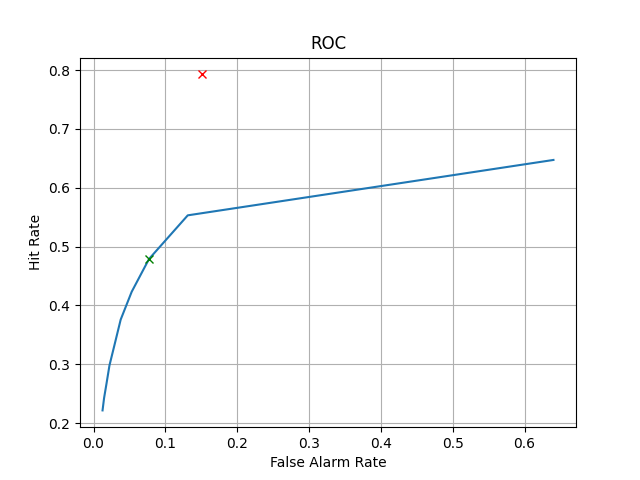
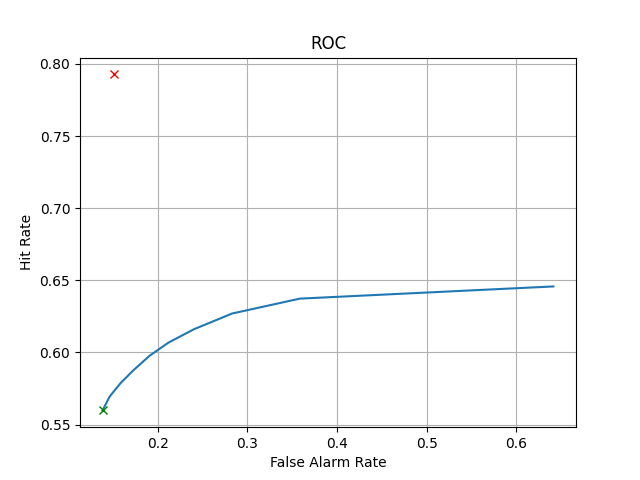
q2 completed

diff --git a/HW3/q1.py b/HW3/q1.py
@@ -7,7 +7,6 @@ c = np.array([[[4, 0], [0, 2]], [[1, 0], [0, 3]], [[2, 0], [0, 2]]])
 w = np.array([0.5, 0.5])
 
 sample_size = np.array([100, 1000, 10000, 20000])
-# create differnt labels (p) with respect to the sample size
 p = np.array([0.6 , 0.4])
 
 labels = np.random.choice([0, 1], size=np.sum(sample_size), p=p)
@@ -37,7 +36,7 @@ def classifier(x, threshold, m, c):
 validation_samples = samples[-sample_size[3]:].T
 validation_labels = labels[-sample_size[3]:]
 
-thresholds = np.arange(0, 10, 1)
+thresholds = np.arange(0, 1, 0.1)
 results = np.zeros(sample_size[3])
 tp = np.zeros(len(thresholds))
 fp = np.zeros(len(thresholds))
@@ -79,6 +78,7 @@ for i in range(sample_size[3]):
     print('Classifying:', i, '/', sample_size[3], end='\r')
 p_error_theoritical = (fn_theoritical + fp_theoritical) / sample_size[3]
 print('Theoritical P-Error: ', p_error_theoritical)
+print('Theoritical Threshold: ', p[0]/p[1])
 plt.figure()
 plt.plot(fp_rate, tp_rate, fp_rate[int(np.argmin(p_error))], tp_rate[int(np.argmin(p_error))], 'gx', fp_theoritical / np.sum(validation_labels == 0), tp_theoritical / np.sum(validation_labels == 1), 'rx')
 plt.xlabel('False Alarm Rate')
@@ -113,11 +113,44 @@ training_labels = labels[sample_size[0] + sample_size[1]:-sample_size[3]]
 est_m = np.zeros((2, 2))
 est_c = np.zeros((2, 2, 2))
 est_p = np.zeros(2)
-
-for i in range(2):
+for i in range(2):   
     est_m[i] = np.mean(training_samples[:, training_labels == i], axis=1)
     est_c[i] = np.cov(training_samples[:, training_labels == i])
 
 est_p[0] = np.sum(training_labels == 0) / training_labels.shape[0]
 est_p[1] = np.sum(training_labels == 1) / training_labels.shape[0]
 print(f"Estimated m: {est_m} \nEstimated c: {est_c} \nEstimated p: {est_p}")
+r = int(10)
+m_candidates = []
+for i in np.arange(-r, r, r/10):
+    for j in np.arange(-r, r, r/10):
+        m_candidates.append([i - r/2, j - r/2])
+
+c_candidates = []
+
+for i in np.arange(-r, r, r/10):
+    for j in np.arange(-r, r, r/10):
+        for k in np.arange(-r, r, r/10):
+            for l in np.arange(-r, r, r/10):
+                c_candidates.append([[i - r/2, j - r/2 + 0.1], [k - r/2 + 0.1, l - r/2]])
+
+likelihood = []
+max_likelihood = 0
+mle_m_best = np.zeros((2, 2))
+mle_c_best = np.zeros((2, 2, 2))
+
+for i in range(len(m_candidates)):
+    for j in range(len(c_candidates)):
+        print(f"Progress: {i * len(c_candidates) + j} / {len(m_candidates) * len(c_candidates)}", end='\r')
+        area = 0
+        for l in range(2):
+            for k in range(len(training_samples)):
+                if(training_labels[k] == l):
+                    area += cal_prob(training_samples[:, k], m_candidates[i], c_candidates[j])
+            if area > max_likelihood:
+                max_likelihood = area
+                mle_m_best[l] = m_candidates[i]
+                mle_c_best[l] = c_candidates[j]
+
+
+print(f"Best m: {mle_m_best} \nBest c: {mle_c_best}")

diff --git a/HW3/q2.py b/HW3/q2.py
@@ -1,0 +1,52 @@
+import numpy as np 
+import matplotlib.pyplot as plt
+from scipy.stats import multivariate_normal
+
+k = 4
+true_location = np.random.multivariate_normal([0, 0], [[0.25, 0], [0, 0.25]], 1)
+# plot the true location and circle with radius 1
+plt.figure()
+plt.plot(true_location[0, 0], true_location[0, 1], 'rx')
+circle = plt.Circle((0, 0), 1, color='r', fill=False)
+theta = np.linspace(0, 2 * np.pi, k, endpoint=False)
+x = np.cos(theta)
+y = np.sin(theta)
+references = np.vstack((x, y)).T
+plt.plot(x, y, 'bo')
+plt.gca().add_patch(circle)
+plt.axis('equal')
+plt.grid()
+plt.savefig('true_location.png')
+
+# measurement with white noise and plot the result
+std = 0.3 * np.ones(k)
+measurement = np.zeros(k)
+for i in range(k):
+    measurement[i] = np.random.normal(np.linalg.norm(true_location - references[i]), std[i])
+
+rv = multivariate_normal(mean=[0, 0], cov=[[0.25, 0], [0, 0.25]])
+x = np.arange(-2, 2, 0.01)
+y = np.arange(-2, 2, 0.01)
+X, Y = np.meshgrid(x, y)
+pos = np.dstack((X, Y))
+
+def map_function(pos):
+    Z = np.zeros((pos.shape[0], pos.shape[1]))
+    for i in range(pos.shape[0]):
+        for j in range(pos.shape[1]):
+            Z[i, j] = np.log(rv.pdf(pos[i, j])) - 0.5 * np.sum((measurement - np.linalg.norm(pos[i, j] - references, axis=1)) ** 2 / (2 * std ** 2))
+    return Z
+
+fig = plt.figure(figsize=(6,5))
+left, bottom, width, height = 0.1, 0.1, 0.8, 0.8
+ax = fig.add_axes([left, bottom, width, height]) 
+cp = plt.contourf(X, Y, map_function(pos))
+# plt.clabel(cp, inline=True, fontsize=10)
+plt.colorbar(cp)
+ax.set_title('Contour Plot')
+ax.set_xlabel('x (cm)')
+ax.set_ylabel('y (cm)')
+plt.plot(true_location[0, 0], true_location[0, 1], 'gx')
+ind = np.unravel_index(np.argmax(map_function(pos), axis=None), map_function(pos).shape)
+plt.plot(x[ind[0]], y[ind[1]], 'rx')
+plt.show()
